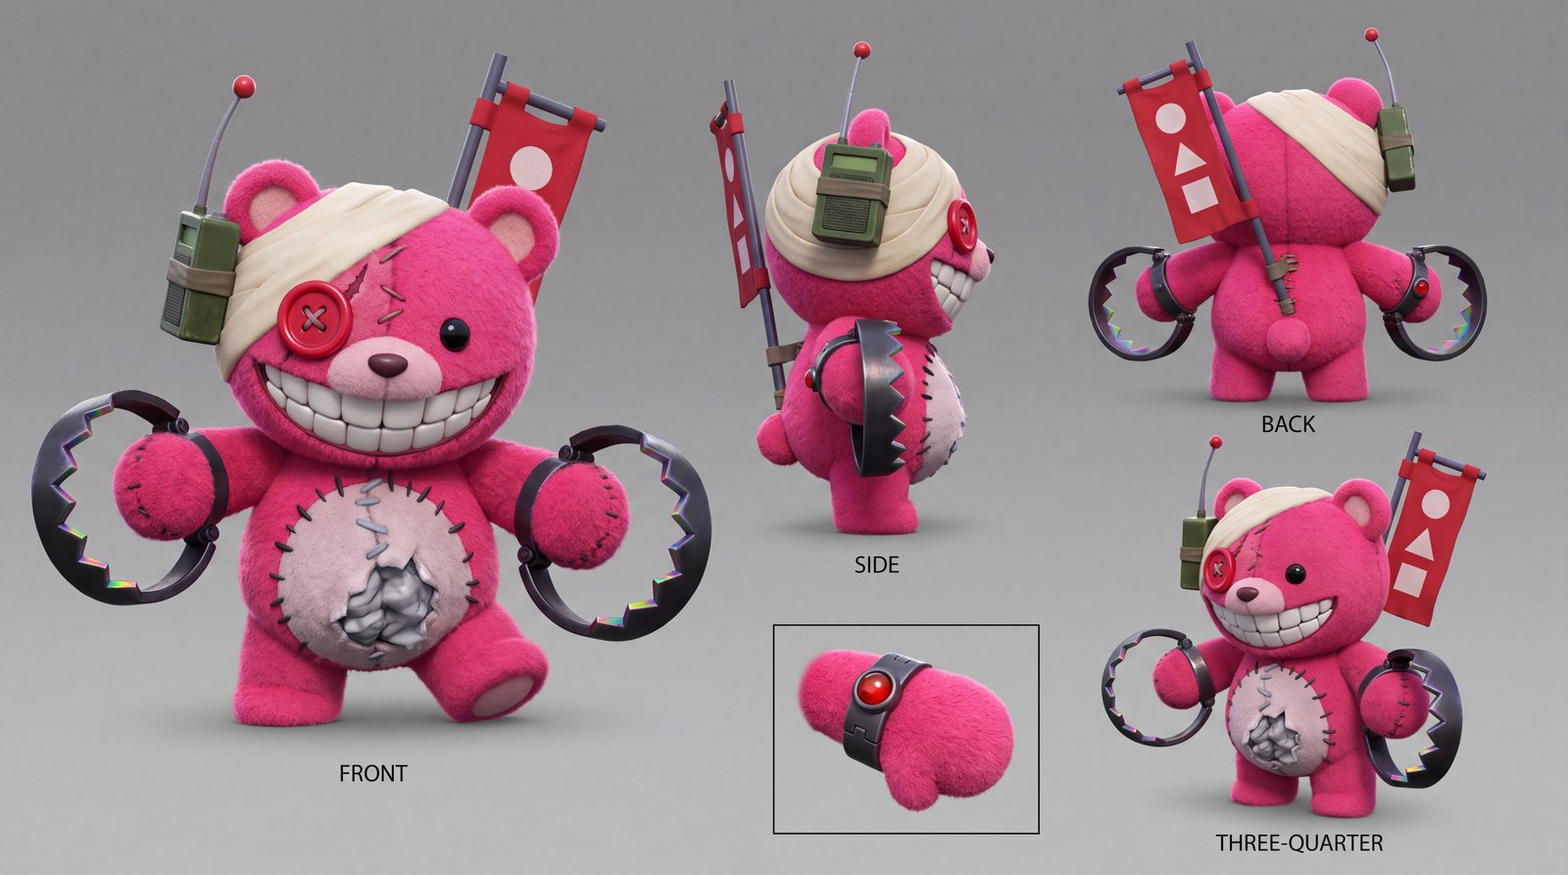
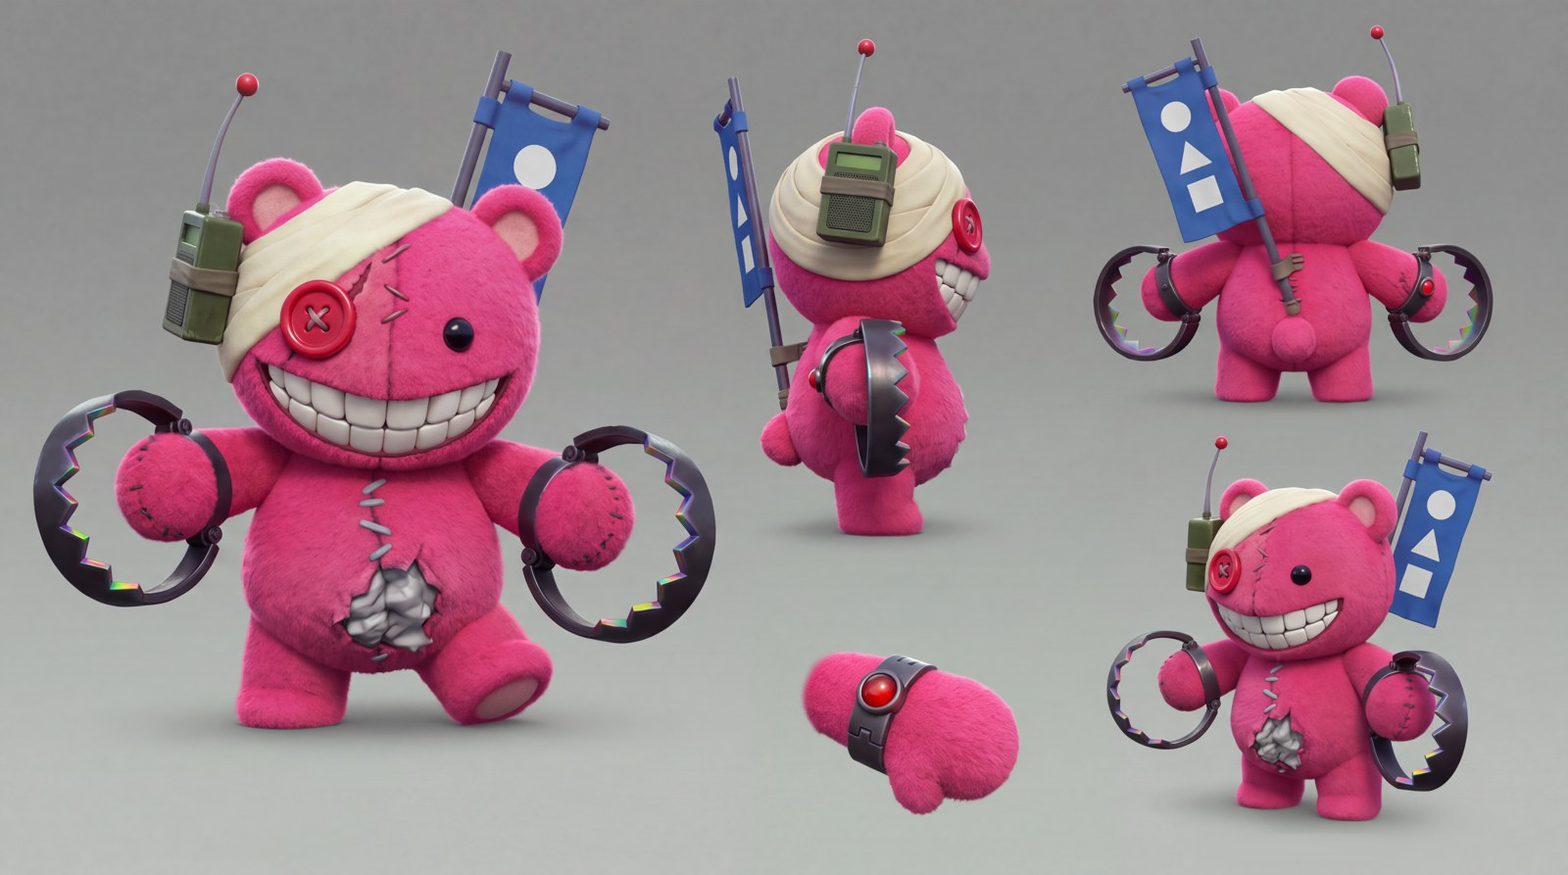
Create the Huggable Elements and queue the comic's Oct 29 panels
- The blue Huggable sheet (an edit of v4, job 42fa59ed) passed both
  review lenses with minor issues. Local fixes made its banner shapes
  neutral white and its cloth royal blue.
- Created huggable-huggable-blue from it, and huggable-huggable (red)
  from the same image with the banner recoloured.
- The comic's Huggable splash (G08) now uses the blue Element and the
  uploaded blue-nose crop.
- SHEETS.md, the package status and the comic schedule are updated.

Claude-Session: https://claude.ai/code/session_01P8G1q2LqE1hzznh79F6qfK

diff --git a/bbg-news-repo/series/comic_ep1/tools/build_layout.py b/bbg-news-repo/series/comic_ep1/tools/build_layout.py
@@ -44,9 +44,9 @@ GFX = "tools/build_assets.py"
 # ---------------------------------------------------------------- prompt parts
 SAN = "<<<e6122a2f-99de-423a-a310-733554bf48bb>>>"
 OLI = "<<<74170e99-a46a-4c7d-857c-d3046b839374>>>"
-HUG = "<<<E1>>>"
+HUG = "<<<3d1e4aec-a12f-47be-ae46-371111ebc431>>>"
 SAN_ID, OLI_ID = SAN[3:-3], OLI[3:-3]
-HUG_ID = "PENDING: huggable-huggable-blue (replace E1 with its UUID once it is in SHEETS.md)"
+HUG_ID = "3d1e4aec-a12f-47be-ae46-371111ebc431"  # huggable-huggable-blue, created Oct 28
 
 SAN_LINE = ("A lean teddy-bear cyborg in a dark maroon helmet with rounded bear-ear bumps and an "
             "opaque glowing red visor hiding his eyes, a light tan muzzle with a small dark goatee, a "
@@ -213,7 +213,7 @@ GEN["G07"] = dict(panel="p19", ratio="5:4", res="4k", day="2026-10-28", els=[SAN
         "the frame are open saturated blue sky with soft white clouds, " + CLEAN], "5:4"))
 GEN["G08"] = dict(panel="p23", ratio="4:5", res="2k", day="2026-10-29", els=[HUG_ID],
     refs=[ref("panels/p20.png", "continuity: the blue hull's nose, turf and light (no characters). "
-              "A crop of the approved G07; upload it with media_upload"),
+              "A crop of the approved G07, uploaded Oct 28 as media fd35a574-b303-4174-be05-8d6d773a9e81"),
           ref(P1B, "dropship design reference (blue-banded P1 recolour)", P1_JOB)],
     prompt=prompt([HUG, HUG_LINE,
         "have snapped around toward the camera in perfect unison, each with its cream bandage, olive "

diff --git a/bbg-news-repo/series/comic_ep1/SCRIPT.md b/bbg-news-repo/series/comic_ep1/SCRIPT.md
@@ -114,7 +114,7 @@ The research checked 3:4 (1080×1440). Instagram has shown 3:4 photos in single 
 - **Element placeholders** go immediately before the words that describe that character:
   - Sanchez: `<<<e6122a2f-99de-423a-a310-733554bf48bb>>>` (`sanchez-arbiter`, the unarmed Element).
   - Oliver: `<<<74170e99-a46a-4c7d-857c-d3046b839374>>>` (`oliver-soldier`, the current Element; never the deleted 85977ecb).
-  - The blue Huggable: the neutral slot `<<<E1>>>`. Replace `E1` with the bare UUID of `huggable-huggable-blue` (main sheet, jaws on) once it is in SHEETS.md. That Element doesn't exist yet: the red sheet v4 (job 321fe5d6) is under review, then the blue edit.
+  - The blue Huggable: `<<<3d1e4aec-a12f-47be-ae46-371111ebc431>>>` (`huggable-huggable-blue`, main sheet, jaws on), created Oct 28 from the blue edit of v4 (job 42fa59ed) after its review panel; the red `huggable-huggable` (c8d81c89-c0f7-49ef-9c6b-dfb70513589f) is the same sheet with the banner recoloured locally.
   - `b-1000-assault-signature` (`afb181b2-…`) and `riggs-heavy` are not used: B-1000 is all reused art, and Riggs isn't in Ep 1.
   - At most two Element characters per image (STYLE.md habit 4); the five Huggables count as one.
 - **Character lines:** Sanchez's from his soul's video starter; Oliver's from his starter, with the package's co-star words ("as tall as the cyborg") and its carry clause ("tucked firmly under his mechanical right arm and hugging a softly glowing red basket of golden fried food"); the Huggable's from its starter with the blue-team change and the package's "Five identical copies of" prefix.
@@ -337,7 +337,7 @@ Coordinates are canvas pixels on 1080×1350. "Crop of Gnn" panels are cut from t
 - **Why the reader swipes:** the swipe is the reveal, and the next swipe is the hard cut, before the hug lands. No contact is ever shown.
 - **Panel:** p23 [40, 40, 1000, 1270]
   - **p23 = G08** (4:5, 2k; **needs the blue Huggable Element** `huggable-huggable-blue`, the main sheet with jaws on, by huggable.md's paw rule, because this is the arms-wide threat pose; references: `panels/p20.png`, the free crop of the approved G07's nose with no characters in it, and P1b). The true reverse from the landing spot at low eye level: five blue Huggables in a loose, staggered row in front of the blue nose, snapped round in unison into the hug pose. Sanchez and Oliver are behind the camera.
-> "<<<E1>>> Five identical copies of a small stitched hot-pink plush teddy about two-thirds as tall as a teddy-bear soldier, with a big round cream-bandaged head, short stubby arms and legs, a boxy dark olive-green radio with a thin grey red-ball antenna, one glossy red button eye on its right, one small black bead eye on its left, a huge fixed toothy grin and a tall, narrow blue banner on a pole rising from its back high above its head, have snapped around toward the camera in perfect unison, each with its cream bandage, olive radio, stitched scar and red button eye on the viewer's left and its bare ear and small black bead eye on the viewer's right, and lean in on their toes with their arms forward and wide in a hug pose, oversized black bear-trap jaws on all their paws, the red balls on their antennas glowing together and their banners whipping above their heads, their grins fixed and their teeth together. A sunlit grassy hilltop at high noon, beside a chunky crash-landed dark grey sci-fi transport aircraft with an olive cast, softly rounded painted-metal panels with gentle dents, royal-blue bands, stubby wings and three fat cylindrical engine pods, the fourth snapped off in the grass beside the nose, a flat, softly glowing pale-cyan square pad with a light-grey rim on top of its hull, faint stacked cyan rings hovering over it, the hull clean, intact and quiet in clear, still air, short, soft, stylised yellow-green turf flecked with tiny white daisies all around, under a saturated mid-blue sky with big soft white cumulus clouds, the high sun as a slightly warm key with a soft cool fill from the sky and a gentle rim light on the characters. Locked-off medium shot at low eye level, the five in a loose, staggered row on the open turf in front of the hull's blunt nose, the hull filling the upper middle of the frame behind them. The top fifth of the frame is open blue sky above the banner tops and the bottom fifth is plain, empty turf, left clear; a clean image with no text. Avoid: photorealistic fur, realistic anatomy, real-person likeness, official logos, text, watermarks. Vertical 4:5 framing. Polished feature-film 3D animation, soft rounded shapes, expressive faces, soft plush fur, soft global illumination, cinematic lighting, snappy cartoon timing with strong poses and holds."
+> "<<<3d1e4aec-a12f-47be-ae46-371111ebc431>>> Five identical copies of a small stitched hot-pink plush teddy about two-thirds as tall as a teddy-bear soldier, with a big round cream-bandaged head, short stubby arms and legs, a boxy dark olive-green radio with a thin grey red-ball antenna, one glossy red button eye on its right, one small black bead eye on its left, a huge fixed toothy grin and a tall, narrow blue banner on a pole rising from its back high above its head, have snapped around toward the camera in perfect unison, each with its cream bandage, olive radio, stitched scar and red button eye on the viewer's left and its bare ear and small black bead eye on the viewer's right, and lean in on their toes with their arms forward and wide in a hug pose, oversized black bear-trap jaws on all their paws, the red balls on their antennas glowing together and their banners whipping above their heads, their grins fixed and their teeth together. A sunlit grassy hilltop at high noon, beside a chunky crash-landed dark grey sci-fi transport aircraft with an olive cast, softly rounded painted-metal panels with gentle dents, royal-blue bands, stubby wings and three fat cylindrical engine pods, the fourth snapped off in the grass beside the nose, a flat, softly glowing pale-cyan square pad with a light-grey rim on top of its hull, faint stacked cyan rings hovering over it, the hull clean, intact and quiet in clear, still air, short, soft, stylised yellow-green turf flecked with tiny white daisies all around, under a saturated mid-blue sky with big soft white cumulus clouds, the high sun as a slightly warm key with a soft cool fill from the sky and a gentle rim light on the characters. Locked-off medium shot at low eye level, the five in a loose, staggered row on the open turf in front of the hull's blunt nose, the hull filling the upper middle of the frame behind them. The top fifth of the frame is open blue sky above the banner tops and the bottom fifth is plain, empty turf, left clear; a clean image with no text. Avoid: photorealistic fur, realistic anatomy, real-person likeness, official logos, text, watermarks. Vertical 4:5 framing. Polished feature-film 3D animation, soft rounded shapes, expressive faces, soft plush fur, soft global illumination, cinematic lighting, snappy cartoon timing with strong poses and holds."
   - Not for pasting: the character line is huggable.md's word for word, with its blue-team change and the package's prefix. The viewer-terms clause sits in the action and places every sided feature (bandage, radio, scar and button eye on the viewer's left; bare ear and bead eye on the viewer's right), after SHEETS.md's Oct 25 diagnosis that the model reads a bare "right" as image-right. The top fifth stays sky above the banner tops (for KSSHT) and the bottom fifth plain turf (for CLACK! and the whisper). Checks (package C5):
     - exactly five, identical, never merging;
     - hot-pink plush paws inside black bear-trap jaws on both paws;
@@ -405,9 +405,9 @@ Dependencies: G02 before G03 and G04 (their reference); G01 before G05, G07 and 
 | Day | Slots (in order) | Also |
 |---|---|---|
 | **Tue Oct 27** (done) | G01 take 1 (mirrored locally; kept), G01 take 2 (rejected), G02 (approved), the Huggable red-sheet edit (muzzle and belly fixed; ear, pole, jaw lights and thumb not), G03 (flagged by the content filter, refunded, but it used the day's fifth slot) | The cover's title moved to the field (§4); the red sheet got its local fixes and went to its review panel |
-| **Wed Oct 28** | 1. **G01 edit** (remove the smoke, black barriers; first, for the teaser). 2. **G03** (reworded). 3. **G07** (needs G01). 4. **Huggable:** the blue main-sheet edit, made from v4 (`321fe5d6`) because the Oct 27 red edit lost the scar and an ear; it asks only for the blue banner, no snout and no belly patch. The red sheet is then derived locally by recolouring the banner. 5. **G05** (needs G01) | Render the teaser from the edited cover (or the mirrored take 1 if the edit fails) and **post it at about 12:00**, AI label on. Send the blue sheet to its review panel |
-| **Thu Oct 29** | 1. **G06** (after G05). 2. **G09** (needs G01). 3. **G04** (needs G02). 4. **G08** (needs the blue Element and p20), else a retake. 5. A retake | First thing: once the blue sheet passes, create the blue Element (free) and write its UUID into SHEETS.md and G08's `<<<E1>>>`. Cut every crop; letter the carousel with `--guides` |
-| **Fri Oct 30** | **G08** if the Element only went live today, and its retake. Remaining retakes | Re-letter with `--guides` as panels land |
+| **Wed Oct 28** (done) | The G01 edit (approved: smoke gone, barriers black), G03 (rejected: both arms mechanical), G07 (approved), the blue Huggable edit (approved after local fixes; both Huggable Elements created), G05 (rejected: the wreck toy-sized) | The teaser rendered from the edited cover and sent; **post it at about 12:00**, AI label on. Crops p20-p22 re-fit to G07 |
+| **Thu Oct 29** | 1. **G03 v3** (the Verdict: one mechanical arm, steeper angle). 2. **G05 v2** (the hull's scale). 3. **G09** (needs G01). 4. **G04** (needs G02). 5. **G08** (the blue Element is live) | Cut every crop; letter the carousel with `--guides` |
+| **Fri Oct 30** | **G06** (after G05) and retakes | Re-letter with `--guides` as panels land |
 | **Sat Oct 31** | **F2** only if there is still no blue Element; otherwise spare | Deadline for the s11 decision |
 | **Sun Nov 1** | Spare (a last retake only) | **Lock:** every panel approved, `letter.py pages.json --strict --guides --jpg`, Bryce's review |
 | **Mon Nov 2 – Tue Nov 3** | Buffer only | Phone check: the slide counter, the 3:4 grid crop of s01, the in-app alt-text limit; final caption |

diff --git a/bbg-news-repo/characters/sheets/SHEETS.md b/bbg-news-repo/characters/sheets/SHEETS.md
@@ -19,7 +19,7 @@ These are the Element sheets: one 4K model sheet per character, in the feature-f
 | Oliver | `oliver-soldier` | 05fde0f3-ebdf-4a32-b5e8-859813f4ebe2 (smaller-plate edit of 992ff073); colour-corrected upload d6b281ee-b656-43eb-adf3-b5d1c5c2b251 | 2026-10-24 | Minor (Element created) |
 | Riggs | `riggs-heavy` | 769625a1-c662-4d45-9974-728a213bf4e6 | 2026-10-19 | Minor |
 | Tillman | `tillman-demolition` | 17b76e5f-993a-4ecd-913d-afe450592e59 (edit of 09ba5b80) | 2026-10-21 | Redo (queued) |
-| Huggable | `huggable-huggable` | 321fe5d6-ddc5-419d-ba3f-848b7ec3d00a (fresh sheet v4) | 2026-10-26 | Fix (sides right; edit queued Oct 27) |
+| Huggable | `huggable-huggable-blue`, `huggable-huggable` | 42fa59ed-201e-4f86-ab63-bb1d7a4ae3d9 (blue edit of v4 321fe5d6); locally fixed upload 8f76c425-0d11-4c7a-8ecc-18530717d504 (blue), red derived locally a7610684-8289-4514-9ed4-7fefa689e50b | 2026-10-28 | Minor (both Elements created) |
 | Astoria | `astoria-sniper` | 64d65c16-9fee-4a3d-a172-1069e1f65869; mirrored upload fcc7f1f4-8599-4812-b509-b0782b6f53a5 | 2026-10-20 | Fix (queued), mirrored |
 | Wil | `wil-chub-scout` | 5b633f8e-10ee-445f-ba46-ba62e1b26f90 (edit of 20f40c63); colour-corrected upload 3f87c967-2748-43d4-9c5b-dd11962459de | 2026-10-22 | Minor (fix queued) |
 | Graham | `graham-engineer` | 55c688d8-bcd6-4a48-9060-b21ef3051a2a (edit of a0a6b54f); mirrored upload d70599fa-9bd9-48b6-b88f-a4884ecce247 | 2026-10-21 | Minor, mirrored |
@@ -42,10 +42,12 @@ Created on 2026-10-22, after Bryce deleted the old Elements. To use one, put `<<
 | `sanchez-arbiter` | e6122a2f-99de-423a-a310-733554bf48bb | locally fixed upload c143c1df |
 | `b-1000-assault-signature` | afb181b2-d8e7-47d3-8426-df01bf99e80c | maroon-corrected upload 28e42805 (created 2026-10-23) |
 | `oliver-soldier` | 74170e99-a46a-4c7d-857c-d3046b839374 | colour-corrected upload d6b281ee of job 05fde0f3 (created 2026-10-25) |
+| `huggable-huggable-blue` | 3d1e4aec-a12f-47be-ae46-371111ebc431 | locally fixed upload 8f76c425 of job 42fa59ed (created 2026-10-28) |
+| `huggable-huggable` | c8d81c89-c0f7-49ef-9c6b-dfb70513589f | upload a7610684: the blue sheet with its banner recoloured to team red locally (created 2026-10-28) |
 
-**Deleted:** Bryce deleted the stale Oliver, Botch, Astoria and Saberi Elements, and a listing confirmed it on 2026-10-22. The second review panel had found real errors in those sheets. Their rows above are kept for history only; the first `oliver-soldier` row (85977ecb) is one of them. The current Elements are `sanchez-arbiter`, `riggs-heavy`, `b-1000-assault-signature` and, from 2026-10-25, `oliver-soldier` (74170e99).
+**Deleted:** Bryce deleted the stale Oliver, Botch, Astoria and Saberi Elements, and a listing confirmed it on 2026-10-22. The second review panel had found real errors in those sheets. Their rows above are kept for history only; the first `oliver-soldier` row (85977ecb) is one of them. The current Elements are `sanchez-arbiter`, `riggs-heavy`, `b-1000-assault-signature` `oliver-soldier` (74170e99, from 2026-10-25), and `huggable-huggable-blue` (3d1e4aec) with `huggable-huggable` (c8d81c89, both from 2026-10-28).
 
-Not created yet, and waiting for their queued fixes: Botch, Astoria, Saberi, Wil, the Huggable (red and blue), Graham and Tillman. The checked prompts for the fresh Tillman and Saberi sheets and the Astoria edit are in the research scratchpad (`shorts/sheets_v2/redo_prompts.json`).
+Not created yet, and waiting for their queued fixes: Botch, Astoria, Saberi, Wil, Graham and Tillman. The checked prompts for the fresh Tillman and Saberi sheets and the Astoria edit are in the research scratchpad (`shorts/sheets_v2/redo_prompts.json`).
 
 ## QA notes
 
@@ -117,6 +119,21 @@ Not created yet, and waiting for their queued fixes: Botch, Astoria, Saberi, Wil
   - Local fixes on it (labels, inset frame, jaw-mount lights, banner shapes) worked except the side-view mount and the side banner.
   - Next (Oct 28): the blue sheet is made as an edit of v4 instead, asking only for the three changes that landed today: the blue banner, no snout, no belly patch. The red sheet is then derived locally from it by recolouring the banner cloth.
   - Accepted minors from v4: its right ear shows above the bandage, the inset paw has a thumb lobe, and the pole is short.
+- **Huggable, Oct 28: the blue sheet passes (minor), and both Elements are created.**
+  - The sheet is the edit `42fa59ed` of v4. It removed the snout, nose and belly patch and turned the banner blue, while keeping v4's sides, both ears and the scar.
+  - Both lenses of the review panel rate it usable.
+  - Local fixes (`fixwork/fix_hug_blue.py`):
+    - the labels and inset frame painted out;
+    - white balance applied first, then the banner shapes turned neutral white;
+    - the banner cloth turned from violet-blue to royal blue.
+  - The red sheet is the same image with the banner recoloured to team red, which saves an edit.
+  - Accepted minors:
+    - its right ear shows above the bandage;
+    - the inset paw has a thumb lobe;
+    - the pole is about 1.1 times its height;
+    - small red lights on the jaw mounts in the side and back views (a local repaint looked worse, so it was dropped);
+    - the chest seam has pale stitch bars rather than dark ticks;
+    - the three-quarter scar lost its dark gash.
 - **Astoria: fix, mirrored** (second review panel).
   - Right: the mirrored sides, cream plush, teal heavy-lidded eyes, red gloves, the quilted maroon belt and the red-and-white boots.
   - Wrong:
@@ -206,9 +223,9 @@ Episode 1 now shares the daily limit, so the plan for each reset is in the resea
 4. Plate P2.
 5. The Huggable, fresh sheet v4.
 
-Oct 28 (comic plan, `series/comic_ep1/SCRIPT.md` §7): the cover cleanup edit, the comic panels G03, G07 and G05, and the blue Huggable edit of v4. Plate P4 and the C2 and C4 start stills are dropped: Episode 1 is now a comic.
+Oct 29 (comic plan, `series/comic_ep1/SCRIPT.md` §7): the comic panels G03 (retake), G05 (retake), G09, G04 and G08, the Huggable splash using `huggable-huggable-blue`. The Huggable sheets are done. Episode 1 is now a comic, so plate P4 and the C2 and C4 start stills are dropped.
 
-Later:
+Later (sheets for future episodes):
 - Botch;
 - Wil's ABBi;
 - fresh Tillman and Saberi sheets (`redo_prompts.json`);

diff --git a/bbg-news-repo/series/comic_ep1/tools/SCRIPT.tmpl.md b/bbg-news-repo/series/comic_ep1/tools/SCRIPT.tmpl.md
@@ -114,7 +114,7 @@ The research checked 3:4 (1080×1440). Instagram has shown 3:4 photos in single 
 - **Element placeholders** go immediately before the words that describe that character:
   - Sanchez: `<<<e6122a2f-99de-423a-a310-733554bf48bb>>>` (`sanchez-arbiter`, the unarmed Element).
   - Oliver: `<<<74170e99-a46a-4c7d-857c-d3046b839374>>>` (`oliver-soldier`, the current Element; never the deleted 85977ecb).
-  - The blue Huggable: the neutral slot `<<<E1>>>`. Replace `E1` with the bare UUID of `huggable-huggable-blue` (main sheet, jaws on) once it is in SHEETS.md. That Element doesn't exist yet: the red sheet v4 (job 321fe5d6) is under review, then the blue edit.
+  - The blue Huggable: `<<<3d1e4aec-a12f-47be-ae46-371111ebc431>>>` (`huggable-huggable-blue`, main sheet, jaws on), created Oct 28 from the blue edit of v4 (job 42fa59ed) after its review panel; the red `huggable-huggable` (c8d81c89-c0f7-49ef-9c6b-dfb70513589f) is the same sheet with the banner recoloured locally.
   - `b-1000-assault-signature` (`afb181b2-…`) and `riggs-heavy` are not used: B-1000 is all reused art, and Riggs isn't in Ep 1.
   - At most two Element characters per image (STYLE.md habit 4); the five Huggables count as one.
 - **Character lines:** Sanchez's from his soul's video starter; Oliver's from his starter, with the package's co-star words ("as tall as the cyborg") and its carry clause ("tucked firmly under his mechanical right arm and hugging a softly glowing red basket of golden fried food"); the Huggable's from its starter with the blue-team change and the package's "Five identical copies of" prefix.
@@ -355,9 +355,9 @@ Dependencies: G02 before G03 and G04 (their reference); G01 before G05, G07 and 
 | Day | Slots (in order) | Also |
 |---|---|---|
 | **Tue Oct 27** (done) | G01 take 1 (mirrored locally; kept), G01 take 2 (rejected), G02 (approved), the Huggable red-sheet edit (muzzle and belly fixed; ear, pole, jaw lights and thumb not), G03 (flagged by the content filter, refunded, but it used the day's fifth slot) | The cover's title moved to the field (§4); the red sheet got its local fixes and went to its review panel |
-| **Wed Oct 28** | 1. **G01 edit** (remove the smoke, black barriers; first, for the teaser). 2. **G03** (reworded). 3. **G07** (needs G01). 4. **Huggable:** the blue main-sheet edit, made from v4 (`321fe5d6`) because the Oct 27 red edit lost the scar and an ear; it asks only for the blue banner, no snout and no belly patch. The red sheet is then derived locally by recolouring the banner. 5. **G05** (needs G01) | Render the teaser from the edited cover (or the mirrored take 1 if the edit fails) and **post it at about 12:00**, AI label on. Send the blue sheet to its review panel |
-| **Thu Oct 29** | 1. **G06** (after G05). 2. **G09** (needs G01). 3. **G04** (needs G02). 4. **G08** (needs the blue Element and p20), else a retake. 5. A retake | First thing: once the blue sheet passes, create the blue Element (free) and write its UUID into SHEETS.md and G08's `<<<E1>>>`. Cut every crop; letter the carousel with `--guides` |
-| **Fri Oct 30** | **G08** if the Element only went live today, and its retake. Remaining retakes | Re-letter with `--guides` as panels land |
+| **Wed Oct 28** (done) | The G01 edit (approved: smoke gone, barriers black), G03 (rejected: both arms mechanical), G07 (approved), the blue Huggable edit (approved after local fixes; both Huggable Elements created), G05 (rejected: the wreck toy-sized) | The teaser rendered from the edited cover and sent; **post it at about 12:00**, AI label on. Crops p20-p22 re-fit to G07 |
+| **Thu Oct 29** | 1. **G03 v3** (the Verdict: one mechanical arm, steeper angle). 2. **G05 v2** (the hull's scale). 3. **G09** (needs G01). 4. **G04** (needs G02). 5. **G08** (the blue Element is live) | Cut every crop; letter the carousel with `--guides` |
+| **Fri Oct 30** | **G06** (after G05) and retakes | Re-letter with `--guides` as panels land |
 | **Sat Oct 31** | **F2** only if there is still no blue Element; otherwise spare | Deadline for the s11 decision |
 | **Sun Nov 1** | Spare (a last retake only) | **Lock:** every panel approved, `letter.py pages.json --strict --guides --jpg`, Bryce's review |
 | **Mon Nov 2 – Tue Nov 3** | Buffer only | Phone check: the slide counter, the 3:4 grid crop of s01, the in-app alt-text limit; final caption |

diff --git a/bbg-news-repo/series/episode1_package.md b/bbg-news-repo/series/episode1_package.md
@@ -49,6 +49,15 @@ Higgsfield's 5-a-day generation limit sets this pace.
 - The comic plan from Oct 27 (SCRIPT.md §7): Oct 27, the cover G01 first, the Huggable red-sheet fix edit of v4 (`321fe5d6`), then G02, G03 and G07; Oct 28, the blue Huggable edit, then G05, G06, G09 and G04, and the teaser posts at about 12:00; the blue Element Oct 29 at the earliest, then the Huggable panel G08 on Oct 29–30, with a fallback by Oct 31. 9 new generations, 22 credits.
 - The comic draws the jump pad as the approved P1 and C1 still do (a flat, softly glowing pale-cyan square with a light-grey rim), not this package's derived octagon (§2, open item 4); see SCRIPT.md open item 12.
 
+**Status on 2026-10-28:**
+- Comic panels approved: the cover (G01, cleaned Oct 28), the food stand (G02) and the landing at the blue wreck (G07).
+- The Oct 28 teaser is rendered and sent to Bryce.
+- Rejected and retaken Oct 29:
+  - the Verdict (G03): both arms came out mechanical;
+  - the launch pad (G05): the wreck came out toy-sized.
+- Huggable Elements are live: `huggable-huggable-blue` (3d1e4aec) and `huggable-huggable` (c8d81c89).
+- Next: G09, G04 and the Huggable splash G08 on Oct 29, then G06 on Oct 30.
+
 
 1. **The Higgsfield Elements are still the old low-poly ones.** A read-only listing of the workspace on 2026-10-20 shows `oliver-soldier` (5e079b47…), `huggable-huggable` (e188dc42…) and `riggs-heavy` (1475a232…), all created on Oct 15 from the retired low-poly sheets (their descriptions say "low-poly"). No Element has been made from any SHEETS.md sheet, and there is no `b-1000-assault-signature` Element at all.
    - Create the new Elements from the SHEETS.md jobs (type `image_job`): B-1000 from the fixed sheet once blocker 5 clears (the current sheet is `1f7259ce-23ed-4398-9a91-cdbf429dfeed`; use it only under Bryce's recorded exception), Oliver `909ea0bd-843e-4324-ae88-193c2eeb84cb`; Sanchez and the blue Huggable once their sheets pass QA. Creating an Element cost nothing on Oct 15.
